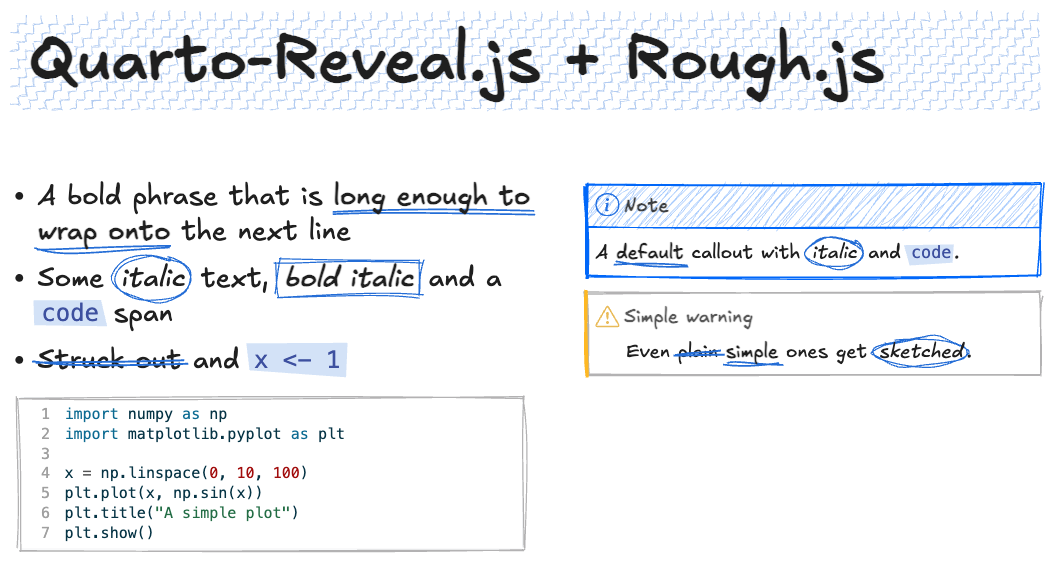
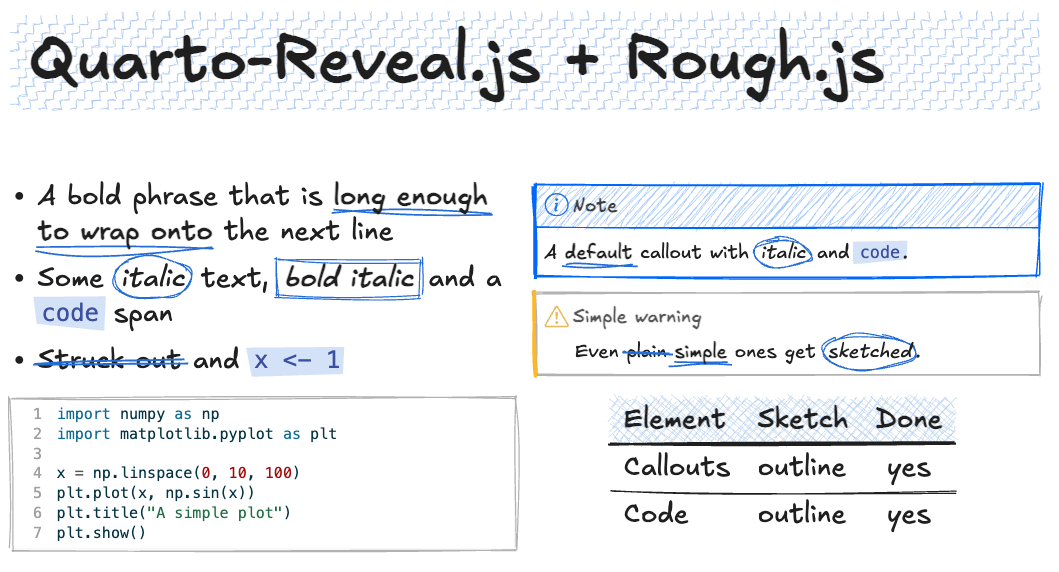
Sketch tables with rough rules and a cross-hatched header
Replace the thin row rules with rough lines (heavier under the header)
and add a light cross-hatched band behind the header row. Tables marked
`.striped` get the same cross-hatch on odd body rows. Add a table to
the example deck, refresh the screenshot and the README example source.

diff --git a/_extensions/qrough/assets/elements/tables.js b/_extensions/qrough/assets/elements/tables.js
@@ -1,0 +1,80 @@
+/*
+ * qrough element: tables.
+ * Rough lines replace the thin row rules (heavier under the header), and the
+ * header row gets a light cross-hatched band in the theme's accent colour.
+ * Tables with `.striped` (Quarto adds `table-striped`) get the same
+ * cross-hatch on every odd body row; revealjs has no native striping.
+ * Captions are left alone.
+ */
+(function () {
+  "use strict";
+
+  // rough.js options for every table shape.
+  const ROUGH = {
+    bowing: 1,
+    strokeWidth: 1.25,
+    fillStyle: "cross-hatch",
+    fillWeight: 0.6,
+    hachureGap: 7,
+    hachureAngle: -41,
+  };
+  const BAND_OPACITY = 0.3;   // header band and stripes
+  const HEADER_RULE = 2;      // header rule width, relative to strokeWidth
+  const BAND_INSET = 1;       // keeps the fill off the rules
+
+  function rows(table) {
+    return Array.prototype.filter.call(table.rows, function (tr) { return tr.cells.length; });
+  }
+
+  window.qrough.register({
+    name: "tables",
+    selector: ".reveal .slides table:not(.sourceCode)",
+    rough: ROUGH,
+
+    // Per row: whether it is a header row, a stripe, and its native rule.
+    readStyle: function (host) {
+      const striped = host.classList.contains("table-striped") || host.classList.contains("striped");
+      let bodyIndex = 0;
+      return {
+        accent: window.qrough.themeColor("--r-link-color", "--r-heading-color"),
+        rows: rows(host).map(function (tr) {
+          const cs = getComputedStyle(tr.cells[0]);
+          const header = tr.parentElement.tagName === "THEAD";
+          const stripe = striped && tr.parentElement.tagName === "TBODY" && bodyIndex++ % 2 === 0;
+          return {
+            el: tr,
+            header: header,
+            stripe: stripe,
+            rule: parseFloat(cs.borderBottomWidth) > 0 && cs.borderBottomStyle !== "none",
+            color: cs.borderBottomColor,
+          };
+        }),
+      };
+    },
+
+    draw: function (ctx) {
+      const rc = ctx.rc;
+      const w = ctx.width;
+      let n = 0;
+
+      // Fills first, so the rules sit on top of them.
+      for (const row of ctx.style.rows) {
+        if (!row.header && !row.stripe) continue;
+        const box = ctx.offsetWithin(row.el, ctx.host);
+        if (!box.height) continue;
+        ctx.add(rc.rectangle(BAND_INSET, box.y + BAND_INSET, w - 2 * BAND_INSET, box.height - 2 * BAND_INSET,
+          ctx.opts({ stroke: "none", fill: ctx.style.accent }, ++n)), BAND_OPACITY);
+      }
+
+      for (const row of ctx.style.rows) {
+        if (!row.rule) continue;
+        const box = ctx.offsetWithin(row.el, ctx.host);
+        const y = box.y + box.height;
+        ctx.add(rc.line(0, y, w, y, ctx.opts({
+          stroke: row.color,
+          strokeWidth: ROUGH.strokeWidth * (row.header ? HEADER_RULE : 1),
+        }, ++n)));
+      }
+    },
+  });
+})();

diff --git a/_extensions/qrough/assets/elements/tables.css b/_extensions/qrough/assets/elements/tables.css
@@ -1,0 +1,6 @@
+/* qrough element: tables. Keep the rule widths (so layout does not shift), drop their colour. */
+
+html.qrough .reveal table.qrough-host > * > tr > th,
+html.qrough .reveal table.qrough-host > * > tr > td {
+  border-bottom-color: transparent !important;
+}

diff --git a/README.md b/README.md
@@ -14,7 +14,7 @@ documents get a render warning.
 
 ## Example
 
-![A qrough slide: a hatched title band, a sketched note callout and warning callout, inline text that is underlined, circled, boxed, highlighted and struck through, and a code block with a rough outline](images/screenshot.png)
+![A qrough slide: a hatched title band, a sketched note callout and warning callout, inline text that is underlined, circled, boxed, highlighted and struck through, a code block with a rough outline, and a table with rough rules and a cross-hatched header](images/screenshot.png)
 
 The slide above (shown after the deck's title slide) is rendered from
 [`example.qmd`](example.qmd):
@@ -39,13 +39,13 @@ format:
 <br />
 
 :::: {.columns}
-::: {.column width="55%"}
+::: {.column width="50%"}
 - A bold phrase that is **long enough to wrap onto** the next line
 - Some *italic* text, ***bold italic*** and a `code` span
 - ~~Struck out~~ and `x <- 1`
 :::
 
-::: {.column width="45%"}
+::: {.column width="50%"}
 ::: {.callout-note title="Note"}
 A **default** callout with *italic* and `code`.
 :::
@@ -70,6 +70,15 @@ plt.show()
 ```
 :::
 
+::: {.column width="50%"}
+<center>
+| Element  | Sketch     | Done |
+|----------|------------|:----:|
+| Callouts | outline    | yes  |
+| Code     | outline    | yes  |
+</center>
+:::
+
 ::::
 ````
 
@@ -87,7 +96,7 @@ plt.show()
 - [x] **Bold italic**: boxed
 - [x] **Strikethrough**: a rough line across the text
 - [x] **Code blocks**: a rough outline in place of the thin border
-- [ ] Tables
+- [x] **Tables**: rough row rules and a cross-hatched header band; `.striped` tables get cross-hatched stripes
 - [ ] Figures
 
 Inline marks follow the text when it wraps onto several lines.
